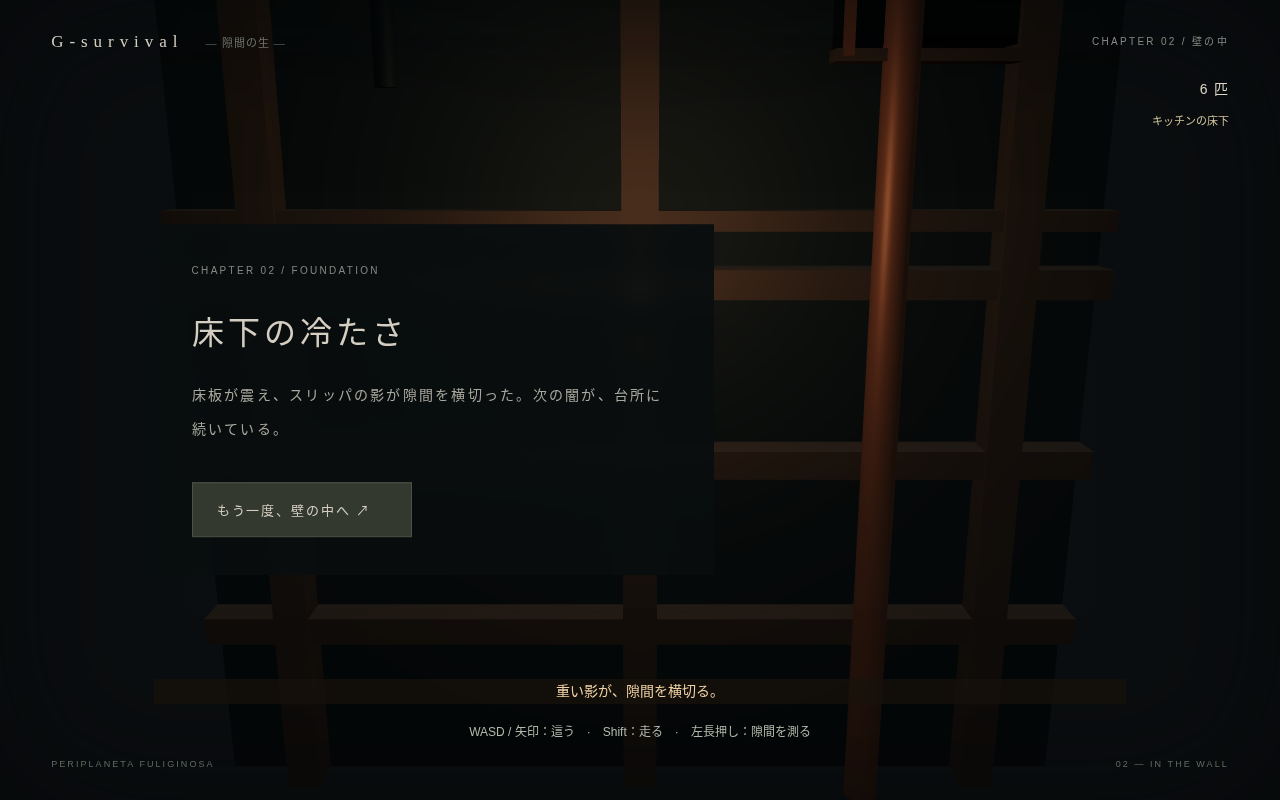
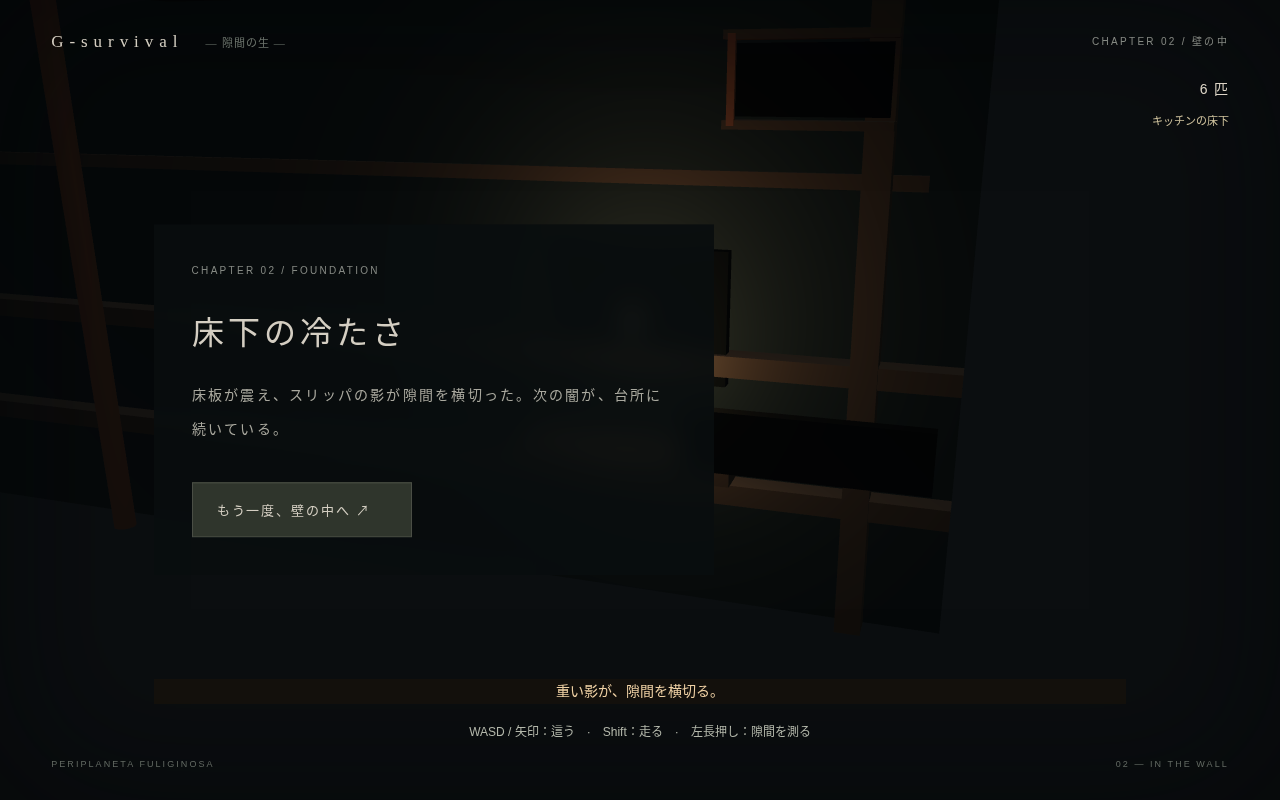
[codex] Rework chapter two routes and contact fairness

Changed region(s): [[0.2812, 0.0, 0.75, 0.7812], [0.5625, 0.0312, 0.5938, 0.1562]]

diff --git a/src/chapter2.ts b/src/chapter2.ts
@@ -8,11 +8,21 @@ type Gap = { x:number; y:number; width:number; side:-1|1; depth:number };
 type CentipedeState = 'patrol'|'warning'|'chase'|'recover';
 const SAVE_KEY='g-survival-progress-v1';
 const clamp=(v:number,lo:number,hi:number)=>Math.max(lo,Math.min(hi,v));
+const LEFT=4,RIGHT=28;
 const gaps:Gap[]=[
- {x:4,y:17,width:1.32,side:-1,depth:3.6},{x:10,y:29,width:.78,side:1,depth:2.8},
- {x:4,y:38,width:1.24,side:-1,depth:3.8},{x:10,y:57,width:.72,side:1,depth:2.7},
- {x:4,y:70,width:1.18,side:-1,depth:3.5},{x:10,y:84,width:.76,side:1,depth:2.6},
+ {x:4,y:17,width:1.4,side:-1,depth:3.6},{x:28,y:20,width:1.4,side:1,depth:3.2},
+ {x:4,y:38,width:1.4,side:-1,depth:3.8},{x:28,y:39,width:1.4,side:1,depth:3.2},
+ {x:4,y:55,width:1.4,side:-1,depth:3.5},{x:28,y:57,width:1.4,side:1,depth:3.2},
+ {x:4,y:70,width:1.4,side:-1,depth:3.5},{x:28,y:75,width:1.4,side:1,depth:3.2},
+ {x:4,y:80,width:1.4,side:-1,depth:3.5},{x:28,y:85,width:1.4,side:1,depth:3.2},
+ {x:4,y:29,width:.78,side:-1,depth:2.8},
 ];
+// AI provisional dimensions: full-height baffles force lateral detours; low debris can be climbed.
+const terrain=[{x:4,y:24,w:17,h:1.2,top:3,solid:true},{x:12,y:46,w:16,h:1.2,top:3,solid:true},{x:4,y:66,w:15,h:1.2,top:3,solid:true},{x:14,y:82,w:14,h:1.2,top:3,solid:true},
+ {x:9,y:14,w:5,h:5,top:1.3,solid:false},{x:17,y:34,w:5,h:5,top:1.6,solid:false},{x:10,y:54,w:5,h:4,top:1.2,solid:false}];
+const blocked=(x:number,y:number,r=.35,enemy=false)=>terrain.some(o=>(o.solid||enemy)&&x>o.x-r&&x<o.x+o.w+r&&y>o.y-r&&y<o.y+o.h+r);
+const heightAt=(x:number,y:number)=>terrain.reduce((z,o)=>o.solid?z:Math.max(z,o.top*clamp(Math.min(x-o.x,o.x+o.w-x,y-o.y,o.y+o.h-y)/1.2,0,1)),0);
+const clearLine=(ax:number,ay:number,bx:number,by:number)=>{const n=Math.ceil(Math.hypot(bx-ax,by-ay)*4);for(let i=0;i<=n;i++)if(blocked(ax+(bx-ax)*i/Math.max(n,1),ay+(by-ay)*i/Math.max(n,1),.2,true))return false;return true;};
 
 export function readProgress():ChapterSave{try{const v=JSON.parse(localStorage.getItem(SAVE_KEY)??'');if(v?.version===1&&Number.isInteger(v.survivors))return v;}catch{}return{version:1,unlockedChapter:1,currentChapter:1,survivors:24,instar:1,bodySize:.75,injuries:[]};}
 export function completeChapterOne(survivors:number){const s:ChapterSave={...readProgress(),unlockedChapter:2,currentChapter:2,survivors:Math.max(1,survivors),instar:3,bodySize:1.02};localStorage.setItem(SAVE_KEY,JSON.stringify(s));}
@@ -27,38 +37,46 @@ export async function mountChapterTwo(){
  const wallMat=new THREE.MeshStandardMaterial({color:'#2c3738',roughness:.94}),timber=new THREE.MeshStandardMaterial({color:'#55463b',roughness:.88}),voidMat=new THREE.MeshStandardMaterial({color:'#071012',roughness:1}),copper=new THREE.MeshStandardMaterial({color:'#93634a',roughness:.48,metalness:.35}),iron=new THREE.MeshStandardMaterial({color:'#354447',roughness:.62,metalness:.55}),insulation=new THREE.MeshStandardMaterial({color:'#71654d',roughness:1});
  function box(x:number,y:number,z:number,w:number,h:number,d:number,mat:THREE.Material){const m=new THREE.Mesh(new THREE.BoxGeometry(w,h,d),mat);m.position.set(x,-y,z);m.castShadow=m.receiveShadow=true;scene.add(m);return m;}
  function pipeAt(x:number,y:number,len:number,r:number,mat:THREE.Material=copper){const m=new THREE.Mesh(new THREE.CylinderGeometry(r,r,len,12),mat);m.position.set(x,-y,.72);m.castShadow=true;scene.add(m);return m;}
- box(7,48,-.6,15,98,1,wallMat);for(const x of [1,7,13])box(x,48,.25,.58,98,.62,timber);for(let y=7;y<92;y+=8)box(7,y,.2,15,.32,.55,timber);
+ box(16,48,-.6,34,98,1,wallMat);for(const o of terrain){if(o.solid)box(o.x+o.w/2,o.y+o.h/2,o.top/2,o.w,o.h,o.top,timber);else{const geometry=new THREE.PlaneGeometry(o.w,o.h,20,20),positions=geometry.attributes.position;for(let i=0;i<positions.count;i++){const x=positions.getX(i)+o.x+o.w/2,y=-positions.getY(i)+o.y+o.h/2;positions.setXYZ(i,x,-y,heightAt(x,y));}geometry.computeVertexNormals();const mound=new THREE.Mesh(geometry,insulation);mound.castShadow=mound.receiveShadow=true;scene.add(mound);}}for(const x of [1,31])box(x,48,.25,.58,98,.62,timber);for(let y=7;y<92;y+=8)box(16,y,-.05,32,.32,.15,timber);
  for(let y=5;y<27;y+=3.2)box(3+(y%2),y,.25,4.8,.42,.55,insulation);
  pipeAt(10.9,48,98,.29);pipeAt(3.2,49,72,.18,iron);for(const y of [33,60,78]){const cross=new THREE.Mesh(new THREE.CylinderGeometry(.16,.16,5.8,10),copper);cross.rotation.z=Math.PI/2;cross.position.set(8,-y,.7);scene.add(cross);}
- for(const gap of gaps){const cx=gap.side<0?gap.x-gap.depth/2:gap.x+gap.depth/2;box(cx,gap.y,.28,gap.depth,gap.width,.9,voidMat);box(cx,gap.y-gap.width/2-.16,.56,gap.depth+.2,.18,.62,timber);box(cx,gap.y+gap.width/2+.16,.56,gap.depth+.2,.18,.62,timber);const rim=new THREE.Mesh(new THREE.BoxGeometry(.16,gap.width+.36,.12),copper);rim.position.set(gap.side<0?3.92:10.08,-gap.y,.84);scene.add(rim);}
- for(const y of [88,91,94])box(7,y,.18,15,.48,.64,timber);
- const hero=createAnimal('roach',save.bodySize);scene.add(hero);
+ for(const gap of gaps){const cx=gap.side<0?gap.x-gap.depth/2:gap.x+gap.depth/2;box(cx,gap.y,.28,gap.depth,gap.width,.9,voidMat);box(cx,gap.y-gap.width/2-.16,.56,gap.depth+.2,.18,.62,timber);box(cx,gap.y+gap.width/2+.16,.56,gap.depth+.2,.18,.62,timber);const rim=new THREE.Mesh(new THREE.BoxGeometry(.16,gap.width+.36,.12),copper);rim.position.set(gap.x+gap.side*.08,-gap.y,.84);scene.add(rim);}
+ for(const y of [91,94])box(16,y,.18,34,.48,.64,timber);
+ box(26,90,.22,4,3,.3,voidMat);box(26,93,1,5,.4,2,timber);
+ const kitchenLight=new THREE.PointLight('#ffe1aa',18,10);kitchenLight.position.set(26,-91,2.5);scene.add(kitchenLight);
+ const slipper=box(26,92,2.5,5,1.3,.3,voidMat);slipper.visible=false;
+ const wind=box(16,61,.12,24,.12,.06,copper);wind.visible=false;
+ const hero=createAnimal('roach',save.bodySize),heroSurface=new THREE.Group();heroSurface.add(hero);scene.add(heroSurface);
  const companions=[-1,1,2].map((side,i)=>{const g=createAnimal('roach',save.bodySize*.92);scene.add(g);return{g,side,delay:i*.18};});
  const centipede=createCentipede();scene.add(centipede);
  const geji=new THREE.Group(),gejiMat=new THREE.MeshStandardMaterial({color:'#4f5350',roughness:.82});for(let n=0;n<12;n++){const body=new THREE.Mesh(new THREE.SphereGeometry(.12,8,5),gejiMat);body.scale.set(1.5,.62,.2);body.position.set(-n*.18,0,.1);geji.add(body);for(const side of [-1,1]){const leg=new THREE.Mesh(new THREE.CylinderGeometry(.008,.008,.78,4),gejiMat);leg.rotation.z=side*Math.PI/2.25;leg.position.set(0,side*.27,.02);body.add(leg);}}scene.add(geji);
  const gecko=new THREE.Group(),geckoMat=new THREE.MeshStandardMaterial({color:'#8b8768',roughness:.9});const geckoBody=new THREE.Mesh(new THREE.SphereGeometry(.42,12,8),geckoMat);geckoBody.scale.set(2.2,.68,.2);gecko.add(geckoBody);const geckoHead=new THREE.Mesh(new THREE.SphereGeometry(.3,10,7),geckoMat);geckoHead.position.x=1.02;geckoHead.scale.set(1,.75,.25);gecko.add(geckoHead);for(const side of [-1,1])for(const x of [-.5,.45]){const foot=new THREE.Mesh(new THREE.CylinderGeometry(.035,.035,.7,5),geckoMat);foot.rotation.z=side*Math.PI/2.25;foot.position.set(x,side*.28,.02);gecko.add(foot);}gecko.position.set(7,-77,.65);scene.add(gecko);
- const audio=new AudioEngine();const keys=new Set<string>();let started=false,ended=false,probe=false,last=performance.now(),startedAt=0,survivors=save.survivors,invulnerable=0,lossNotice=0,moltHold=0,molting=0,molted=save.bodySize>1.02,geckoTimer=0,geckoWarning=0,humanTimer=-1;let bodySize=save.bodySize;const player={x:7,y:3,angle:-Math.PI/2};const checkpoint={x:7,y:3};const enemy={x:7,y:34,state:'patrol' as CentipedeState,timer:0,targetY:34};
+ const audio=new AudioEngine();const keys=new Set<string>();let started=false,ended=false,probe=false,last=performance.now(),startedAt=0,survivors=save.survivors,invulnerable=0,lossNotice=0,moltHold=0,molting=0,molted=save.bodySize>1.02,geckoTimer=0,geckoWarning=0,humanTimer=-1;let elapsed=0,gejiExposure=0;const geckoAttack={x:7,y:77,tx:7,ty:77,strike:0};let bodySize=save.bodySize;const player={x:7,y:3,angle:-Math.PI/2};const checkpoint={x:7,y:3};const enemy={x:7,y:34,state:'patrol' as CentipedeState,timer:0,targetY:34};
  addEventListener('keydown',e=>{if(['KeyW','KeyA','KeyS','KeyD','ArrowUp','ArrowDown','ArrowLeft','ArrowRight','ShiftLeft','ShiftRight'].includes(e.code))e.preventDefault();keys.add(e.code);});addEventListener('keyup',e=>keys.delete(e.code));addEventListener('blur',()=>keys.clear());addEventListener('pointerdown',e=>{if(e.button===0&&!(e.target as HTMLElement).closest('button'))probe=true;});addEventListener('pointerup',()=>probe=false);
  const resize=()=>{renderer.setSize(innerWidth,innerHeight);camera.aspect=innerWidth/innerHeight;camera.updateProjectionMatrix();};addEventListener('resize',resize);resize();
  const begin=document.querySelector<HTMLButtonElement>('#begin')!;begin.disabled=false;begin.innerHTML='壁の中へ入る <span>↓</span>';begin.onclick=()=>{started=true;startedAt=performance.now();document.querySelector('#entry')!.classList.add('gone');void audio.start();};document.querySelector<HTMLButtonElement>('#again')!.onclick=()=>location.reload();
- const nearGap=()=>gaps.find(g=>Math.abs(player.y-g.y)<g.width*.5+.18&&Math.abs(player.x-g.x)<g.depth+.5);
- const sheltered=()=>{const g=nearGap();return !!g&&g.width>=bodySize&&(g.side<0?player.x<3.8:player.x>10.2);};
- function move(dt:number){if(molting>0||humanTimer>=0)return 0;const dx=(keys.has('KeyD')||keys.has('ArrowRight')?1:0)-(keys.has('KeyA')||keys.has('ArrowLeft')?1:0),dy=(keys.has('KeyS')||keys.has('ArrowDown')?1:0)-(keys.has('KeyW')||keys.has('ArrowUp')?1:0),len=Math.hypot(dx,dy);if(!len)return 0;const speed=(keys.has('ShiftLeft')||keys.has('ShiftRight')?3.6:2.6),step=speed*dt,nx=dx/len,ny=dy/len;let nextX=player.x+nx*step,nextY=clamp(player.y+ny*step,1,92);const gate=gaps.find(g=>Math.abs(nextY-g.y)<g.width*.5+.18&&((g.side<0&&nextX<4)||(g.side>0&&nextX>10)));if(nextX<4||nextX>10){if(!gate||gate.width<bodySize)nextX=clamp(nextX,4,10);else nextX=clamp(nextX,gate.side<0?4-gate.depth:4,gate.side>0?10+gate.depth:10);}player.x=nextX;player.y=nextY;player.angle=Math.atan2(-ny,nx);return speed;}
- function updateEnemy(dt:number){enemy.timer+=dt;if(enemy.state==='patrol'){enemy.y=34+(1-Math.abs((enemy.timer*2.1%44)-22));if(Math.hypot(enemy.x-player.x,enemy.y-player.y)<7.5&&!sheltered()){enemy.state='warning';enemy.timer=0;enemy.targetY=player.y;}}else if(enemy.state==='warning'){if(sheltered()){enemy.state='recover';enemy.timer=0;}else if(enemy.timer>=.6){enemy.state='chase';enemy.timer=0;}}else if(enemy.state==='chase'){if(sheltered()){enemy.state='recover';enemy.timer=0;}else{const dx=player.x-enemy.x,dy=player.y-enemy.y,distance=Math.hypot(dx,dy),d=distance||1,step=Math.min(distance,3.9*dt);enemy.x+=dx/d*step;enemy.y+=dy/d*step;if(distance<.58&&invulnerable<=0){survivors--;lossNotice=2.5;invulnerable=1.2;player.x=checkpoint.x;player.y=checkpoint.y;enemy.state='recover';enemy.timer=0;if(survivors<=0)finish(false);}}}else if(enemy.timer>=1.6){enemy.state='patrol';enemy.timer=0;}}
+ const nearGap=()=>gaps.find(g=>Math.abs(player.y-g.y)<g.width*.5+.18&&(player.x-g.x)*g.side>-.5&&(player.x-g.x)*g.side<g.depth+.5);
+ const sheltered=()=>{const g=nearGap();return !!g&&g.width>=bodySize&&(player.x-g.x)*g.side>.2;};
+ function move(dt:number){if(molting>0||humanTimer>=0)return 0;const dx=(keys.has('KeyD')||keys.has('ArrowRight')?1:0)-(keys.has('KeyA')||keys.has('ArrowLeft')?1:0),dy=(keys.has('KeyS')||keys.has('ArrowDown')?1:0)-(keys.has('KeyW')||keys.has('ArrowUp')?1:0),len=Math.hypot(dx,dy);if(!len)return 0;const speed=(keys.has('ShiftLeft')||keys.has('ShiftRight')?3.6:2.6),step=speed*dt,nx=dx/len,ny=dy/len;let nextX=player.x+nx*step,nextY=clamp(player.y+ny*step,1,92);const gate=gaps.find(g=>Math.abs(nextY-g.y)<Math.max(.08,(g.width-bodySize)*.5+.1)&&((g.side<0&&nextX<LEFT)||(g.side>0&&nextX>RIGHT)));
+ if(nextX<LEFT||nextX>RIGHT){if(!gate||gate.width<bodySize){nextX=clamp(nextX,LEFT,RIGHT);if(player.x<LEFT||player.x>RIGHT){nextX=player.x+nx*step;nextY=player.y;}}else nextX=clamp(nextX,gate.side<0?LEFT-gate.depth:LEFT,gate.side>0?RIGHT+gate.depth:RIGHT);}
+ if(!blocked(nextX,player.y))player.x=nextX;if(!blocked(player.x,nextY))player.y=nextY;player.angle=Math.atan2(-ny,nx);return speed;}
+ function updateEnemy(dt:number){enemy.timer+=dt;if(enemy.state==='patrol'){const patrolY=34+Math.sin(enemy.timer*.35)*7;if(!blocked(enemy.x,patrolY,.4,true))enemy.y=patrolY;if(Math.hypot(enemy.x-player.x,enemy.y-player.y)<7.5&&!sheltered()&&clearLine(enemy.x,enemy.y,player.x,player.y)){enemy.state='warning';enemy.timer=0;enemy.targetY=player.y;}}else if(enemy.state==='warning'){if(sheltered()){enemy.state='recover';enemy.timer=0;}else if(enemy.timer>=.6){enemy.state='chase';enemy.timer=0;}}else if(enemy.state==='chase'){if(sheltered()){enemy.state='recover';enemy.timer=0;}else{const dx=player.x-enemy.x,dy=player.y-enemy.y,distance=Math.hypot(dx,dy),d=distance||1,step=Math.min(distance,3.9*dt);if(!blocked(enemy.x+dx/d*step,enemy.y,.4,true))enemy.x+=dx/d*step;if(!blocked(enemy.x,enemy.y+dy/d*step,.4,true))enemy.y+=dy/d*step;if(distance<.58&&heightAt(player.x,player.y)<.3&&invulnerable<=0){survivors--;lossNotice=2.5;invulnerable=1.2;player.x=checkpoint.x;player.y=checkpoint.y;enemy.state='recover';enemy.timer=0;if(survivors<=0)finish(false);}}}else if(enemy.timer>=1.6){enemy.state='patrol';enemy.timer=0;}}
  function lose(){if(invulnerable>0)return;survivors--;lossNotice=2.5;invulnerable=1.2;player.x=checkpoint.x;player.y=checkpoint.y;enemy.state='recover';enemy.timer=0;if(survivors<=0)finish(false);}
  function updateHazards(dt:number,now:number){
-  const phase=(now/1000)%10,gejiActive=phase>=.65&&phase<4.2&&player.y>58&&player.y<64;
-  if(gejiActive&&!sheltered()&&player.x>3.2&&player.x<10.8)lose();
-  if(player.y>72&&player.y<84&&!sheltered()&&geckoWarning<=0){geckoTimer+=dt;if(geckoTimer>=1.1){geckoWarning=.7;geckoTimer=0;}}else geckoTimer=0;
-  if(geckoWarning>0){geckoWarning-=dt;if(geckoWarning<=0&&!sheltered()&&player.y>72&&player.y<84)lose();}
+  const phase=now%10,gejiX=LEFT-3+(phase-.9)*8;
+  gejiExposure=player.y>54&&player.y<68?gejiExposure+dt:0;
+  if(phase>=.9&&phase<4.8&&gejiExposure>=.9&&!sheltered()&&Math.abs(player.y-61)<.5&&player.x<=gejiX+.25&&player.x>=gejiX-2.4&&heightAt(player.x,player.y)<.3)lose();
+  if(player.y>72&&player.y<84&&!sheltered()&&geckoWarning<=0&&geckoAttack.strike<=0){geckoTimer+=dt;if(geckoTimer>=1.1){geckoWarning=.9;geckoTimer=0;geckoAttack.tx=player.x;geckoAttack.ty=player.y;}}else geckoTimer=0;
+  if(geckoWarning>0){geckoWarning-=dt;if(geckoWarning<=0)geckoAttack.strike=.65;}
+  if(geckoAttack.strike>0){geckoAttack.strike-=dt;const dx=geckoAttack.tx-geckoAttack.x,dy=geckoAttack.ty-geckoAttack.y,d=Math.hypot(dx,dy)||1,step=Math.min(d,12*dt);if(!blocked(geckoAttack.x+dx/d*step,geckoAttack.y+dy/d*step,.45,true)){geckoAttack.x+=dx/d*step;geckoAttack.y+=dy/d*step;}if(!sheltered()&&Math.hypot(player.x-geckoAttack.x,player.y-geckoAttack.y)<.7)lose();}
   if(!molted&&player.y>67&&player.y<73&&sheltered()&&keys.has('Space'))moltHold+=dt;else moltHold=0;
   if(!molted&&moltHold>=3){molting=3.2;moltHold=0;}
   if(molting>0){molting-=dt;if(molting<=0){molted=true;bodySize=1.2;save.bodySize=bodySize;save.instar=4;localStorage.setItem(SAVE_KEY,JSON.stringify(save));}}
-  if(player.y>=88&&humanTimer<0)humanTimer=0;
+  if(player.y>=89&&player.x>=24&&humanTimer<0)humanTimer=0;
   if(humanTimer>=0){humanTimer+=dt;if(humanTimer>=3.2)finish(true);}
  }
  function finish(won:boolean){if(ended)return;ended=true;const end=document.querySelector<HTMLElement>('#ending')!;end.hidden=false;end.querySelector('h2')!.textContent=won?'床下の冷たさ':'脚音だけが残った';end.querySelector('p')!.textContent=won?'床板が震え、スリッパの影が隙間を横切った。次の闇が、台所に続いている。':'Gの群れは、壁の途中で途絶えた。';}
- function render(now:number,speed:number){hero.position.set(player.x,-player.y,.72);animateAnimal(hero,now/1000,speed,player.angle,molting>0?(1-molting/3.2):molted?.3:0);const scatter=Math.min(1,Math.max(0,(now-startedAt)/1800));companions.forEach(({g,side,delay},i)=>{if(scatter>=1){g.visible=false;return;}const t=Math.max(0,Math.min(1,scatter-delay));g.position.set(7+side*(.35+t*(2.8+i*.45)),-(3+t*(3.5+i*1.8)),.72);animateAnimal(g,now/1000,2.4,Math.atan2(-(3.5+i*1.8),side*(2.8+i*.45)));});const centipedeSpeed=enemy.state==='chase'?3.9:enemy.state==='patrol'?2.1:enemy.state==='warning'?.35:.8;animateCentipede(centipede,now/1000,centipedeSpeed);centipede.position.set(enemy.x,-enemy.y,.72);centipede.rotation.z=Math.atan2(-(player.y-enemy.y),player.x-enemy.x);const gejiPhase=(now/1000)%10,gejiX=gejiPhase<.65?-3:gejiPhase<4.2?-3+(gejiPhase-.65)*5.2:16;geji.visible=gejiPhase<4.2;geji.position.set(gejiX,-61,.09);geji.rotation.z=0;gecko.visible=player.y>68&&player.y<87;gecko.position.y=-77;gecko.position.x=geckoWarning>0?7+Math.sin(now*.03)*.35:7;gecko.rotation.z=Math.PI;camera.position.set(7,-player.y+2.2,17);camera.lookAt(7,-player.y-2,0);lamp.position.set(player.x,-player.y+1,4);renderer.render(scene,camera);}
- function frame(now:number){requestAnimationFrame(frame);const dt=Math.min(.05,(now-last)/1000);last=now;let speed=0;if(started&&!ended){invulnerable=Math.max(0,invulnerable-dt);lossNotice=Math.max(0,lossNotice-dt);speed=move(dt);if(player.y>12)checkpoint.y=Math.max(checkpoint.y,Math.floor(player.y/18)*18);updateEnemy(dt);updateHazards(dt,now);const gap=nearGap(),tooNarrow=!!gap&&gap.width<bodySize,danger=enemy.state==='warning'||enemy.state==='chase',gejiWarning=player.y>54&&player.y<68&&((now/1000)%10)<.65;const warning=lossNotice>0?'Gが1体、減りました':humanTimer>=0?(humanTimer<1.2?'床板が、上で軋み始めた。':'重い影が、隙間を横切る。'):molting>0?'背中が裂け、白い脚が壁に貼りつく。':!molted&&moltHold>0?'殻の内側が、ゆっくり膨らむ。':tooNarrow?'胸が擦れる。ここはもう通れない。':danger?(enemy.state==='warning'?'粉塵が、下から浮いた。':'ムカデの頭が、こちらへ向いた。'):geckoWarning>0?'巾木の影が、呼吸のように膨らむ。':gejiWarning?'配管の上で、細い脚音が増えていく。':probe&&gap?(gap.width>=bodySize?'触角の先に、身体を隠せる奥行きがある。':'触角が、奥で戻ってきた。'):'';document.querySelector('#warning')!.textContent=warning;document.querySelector('#population')!.textContent=survivors+' 匹';document.querySelector('#objective')!.textContent=player.y<28?'配線と間柱のシャフト':player.y<58?'湿った配管の分岐':player.y<82?'巾木の裏':'キッチンの床下';audio.update(dt,{speed:speed/3.6,danger:danger?1:gejiWarning||geckoWarning>0? .8:humanTimer>=0?.9:0,pan:Math.sign(enemy.x-player.x),molting:molting>0,stamina:1,human:humanTimer>=0?1:0,vertical:enemy.y-player.y,loss:lossNotice>2});}render(now,speed);}
- if(import.meta.env.DEV&&new URLSearchParams(location.search).has('test'))Object.assign(window,{chapter2Test:{setPosition(x:number,y:number){player.x=x;player.y=y;},snapshot(){return{...player,survivors,enemy:{...enemy},sheltered:sheltered(),molted,bodySize,humanTimer,geckoTimer,geckoWarning,moltHold,molting};},setEnemy(state:CentipedeState,y:number,timer=0,x=7){enemy.state=state;enemy.x=x;enemy.y=y;enemy.timer=timer;},startMolt(){molting=3.2;}}});requestAnimationFrame(frame);
+ function render(now:number,speed:number){heroSurface.position.set(player.x,-player.y,.72+heightAt(player.x,player.y));const slopeX=(heightAt(player.x+.05,player.y)-heightAt(player.x-.05,player.y))/.1,slopeY=(heightAt(player.x,player.y+.05)-heightAt(player.x,player.y-.05))/.1;heroSurface.quaternion.setFromUnitVectors(new THREE.Vector3(0,0,1),new THREE.Vector3(-slopeX,slopeY,1).normalize());animateAnimal(hero,now/1000,speed,player.angle,molting>0?(1-molting/3.2):molted?.3:0);const scatter=Math.min(1,Math.max(0,(now-startedAt)/1800));companions.forEach(({g,side,delay},i)=>{if(scatter>=1){g.visible=false;return;}const t=Math.max(0,Math.min(1,scatter-delay));g.position.set(7+side*(.35+t*(2.8+i*.45)),-(3+t*(3.5+i*1.8)),.72);animateAnimal(g,now/1000,2.4,Math.atan2(-(3.5+i*1.8),side*(2.8+i*.45)));});const centipedeSpeed=enemy.state==='chase'?3.9:enemy.state==='patrol'?2.1:enemy.state==='warning'?.35:.8;animateCentipede(centipede,now/1000,centipedeSpeed);centipede.position.set(enemy.x,-enemy.y,.72);centipede.rotation.z=Math.atan2(-(player.y-enemy.y),player.x-enemy.x);const gejiPhase=elapsed%10,gejiX=LEFT-3+(gejiPhase-.9)*8;geji.visible=gejiPhase>=.9&&gejiPhase<4.8;geji.position.set(gejiX,-61,.72);wind.visible=gejiPhase<.9;wind.scale.y=1+gejiPhase*12;geji.rotation.z=0;gecko.visible=player.y>68&&player.y<87;gecko.position.set(geckoAttack.x,-geckoAttack.y,.72);gecko.scale.setScalar(geckoWarning>0?1+.12*Math.sin(now*.015):1);gecko.rotation.z=Math.atan2(-(geckoAttack.ty-geckoAttack.y),geckoAttack.tx-geckoAttack.x);slipper.visible=humanTimer>=1.2;slipper.position.x=26+(humanTimer-2.2)*4;camera.position.set(player.x+7,-player.y+5,22);camera.lookAt(player.x,-player.y-2,.3);lamp.position.set(player.x,-player.y+1,4);renderer.render(scene,camera);}
+ function frame(now:number){requestAnimationFrame(frame);const dt=Math.min(.05,(now-last)/1000);last=now;let speed=0;if(started&&!ended){invulnerable=Math.max(0,invulnerable-dt);lossNotice=Math.max(0,lossNotice-dt);elapsed+=dt;speed=move(dt);if(sheltered()){checkpoint.x=player.x;checkpoint.y=player.y;}updateEnemy(dt);updateHazards(dt,elapsed);const gap=nearGap(),tooNarrow=!!gap&&gap.width<bodySize,danger=enemy.state==='warning'||enemy.state==='chase',gejiWarning=player.y>54&&player.y<68&&(elapsed%10)<.9;const warning=lossNotice>0?'Gが1体、減りました':humanTimer>=0?(humanTimer<1.2?'床板が、上で軋み始めた。':'重い影が、隙間を横切る。'):molting>0?'背中が裂け、白い脚が壁に貼りつく。':!molted&&moltHold>0?'殻の内側が、ゆっくり膨らむ。':tooNarrow?'胸が擦れる。ここはもう通れない。':danger?(enemy.state==='warning'?'粉塵が、下から浮いた。':'ムカデの頭が、こちらへ向いた。'):geckoWarning>0?'巾木の影が、呼吸のように膨らむ。':gejiWarning?'配管の上で、細い脚音が増えていく。':probe&&gap?(gap.width>=bodySize?'触角の先に、身体を隠せる奥行きがある。':'触角が、奥で戻ってきた。'):'';document.querySelector('#warning')!.textContent=warning;document.querySelector('#population')!.textContent=survivors+' 匹';document.querySelector('#objective')!.textContent=player.y<28?'配線と間柱のシャフト':player.y<58?'湿った配管の分岐':player.y<82?'巾木の裏':'キッチンの床下';audio.update(dt,{speed:speed/3.6,danger:danger?1:gejiWarning||geckoWarning>0? .8:humanTimer>=0?.9:0,pan:Math.sign(enemy.x-player.x),molting:molting>0,stamina:1,human:humanTimer>=0?1:0,vertical:enemy.y-player.y,loss:lossNotice>2});}render(now,speed);}
+ if(import.meta.env.DEV&&new URLSearchParams(location.search).has('test'))Object.assign(window,{chapter2Test:{step(dt:number){if(ended)return;elapsed+=dt;invulnerable=Math.max(0,invulnerable-dt);move(dt);if(sheltered()){checkpoint.x=player.x;checkpoint.y=player.y;}updateEnemy(dt);updateHazards(dt,elapsed);},setPosition(x:number,y:number){player.x=x;player.y=y;},snapshot(){return{...player,survivors,enemy:{...enemy},elapsed,height:heightAt(player.x,player.y),geckoAttack:{...geckoAttack},sheltered:sheltered(),molted,bodySize,humanTimer,geckoTimer,geckoWarning,moltHold,molting};},setEnemy(state:CentipedeState,y:number,timer=0,x=7){enemy.state=state;enemy.x=x;enemy.y=y;enemy.timer=timer;},startMolt(){molting=3.2;}}});requestAnimationFrame(frame);
 }

diff --git a/src/centipede.ts b/src/centipede.ts
@@ -2,25 +2,34 @@ import * as THREE from 'three';
 import { GLTFLoader, type GLTF } from 'three/addons/loaders/GLTFLoader.js';
 
 let asset:GLTF|undefined,pending:Promise<void>|undefined;
-type Piece={node:THREE.Object3D;position:THREE.Vector3;quaternion:THREE.Quaternion;index:number;side:number};
-type Rig={tergites:Piece[];legs:Piece[];feelers:Piece[];claws:Piece[];last:number|null;phase:number};
-const rigs=new WeakMap<THREE.Group,Rig>(),turn=new THREE.Quaternion();
-// Native glTF -Z forward / +Y up -> Chapter 2 wall plane +X forward / +Z out.
+type Segment={node:THREE.Group;base:THREE.Vector3;index:number};
+type Leg={node:THREE.Group;index:number;side:number};
+type Rig={segments:Segment[];legs:Leg[];last:number|null;phase:number};
+const rigs=new WeakMap<THREE.Group,Rig>();
+// Native glTF -Z forward / +Y up -> wall +X forward / +Z out.
 const basis=new THREE.Matrix4().makeBasis(new THREE.Vector3(0,-1,0),new THREE.Vector3(0,0,1),new THREE.Vector3(-1,0,0));
-
 export function loadCentipede(){return pending??=new GLTFLoader().loadAsync(`${import.meta.env.BASE_URL}models/centipede.glb`).then(g=>{if(!g.scene.getObjectByName('head'))throw new Error('Centipede head missing');asset=g;}).catch(error=>{pending=undefined;throw error;});}
-function collect(model:THREE.Object3D,prefix:string){const pieces:Piece[]=[];model.traverse(node=>{if(!node.name.startsWith(prefix))return;const match=node.name.match(/_(\d+)(?:_|$)/),side=/_L(?:_|$)/.test(node.name)?-1:/_R(?:_|$)/.test(node.name)?1:0;pieces.push({node,position:node.position.clone(),quaternion:node.quaternion.clone(),index:match?Number(match[1]):0,side});});return pieces.sort((a,b)=>a.index-b.index||a.side-b.side);}
 export function createCentipede(){
  if(!asset)throw new Error('Call loadCentipede before creating a centipede');
- const g=new THREE.Group(),adapter=new THREE.Group(),model=asset.scene.clone(true);adapter.quaternion.setFromRotationMatrix(basis);adapter.add(model);g.add(adapter);g.scale.setScalar(.82);g.updateMatrixWorld(true);
+ const g=new THREE.Group(),adapter=new THREE.Group(),model=asset.scene.clone(true);adapter.quaternion.setFromRotationMatrix(basis);adapter.add(model);g.add(adapter);g.scale.setScalar(.82);
+ // Anchor simulation/contact to the actual head, keeping the accepted asset proportions.
+ const head=model.getObjectByName('head')!;model.position.copy(head.position).multiplyScalar(-1);model.position.y=0;
+ const pieces=[...model.children],segments:Segment[]=[],legs:Leg[]=[];
+ for(let index=0;index<17;index++){
+  const plate=model.getObjectByName(`tergite_${String(index).padStart(2,'0')}`)!;const node=new THREE.Group();node.position.copy(plate.position);model.add(node);segments.push({node,base:node.position.clone(),index});
+  for(const part of pieces){const m=part.name.match(/^(?:tergite|sternite|leg)_(\d+)/);if(m&&Number(m[1])===index){part.position.sub(node.position);node.add(part);}}
+  for(const side of [-1,1]){const tag=side<0?'L':'R',parts=node.children.filter(p=>p.name.startsWith(`leg_${String(index).padStart(2,'0')}_${tag}_`));if(!parts.length)continue;
+   const upper=parts.find(p=>p.name.endsWith('_upper'))! as THREE.Mesh;upper.geometry.computeBoundingBox();const bounds=upper.geometry.boundingBox!;
+   const a=new THREE.Vector3(0,bounds.min.y,0).applyQuaternion(upper.quaternion).add(upper.position),b=new THREE.Vector3(0,bounds.max.y,0).applyQuaternion(upper.quaternion).add(upper.position);
+   const pivot=new THREE.Group();pivot.position.copy(Math.abs(a.x)<Math.abs(b.x)?a:b);node.add(pivot);for(const part of parts){part.position.sub(pivot.position);pivot.add(part);}legs.push({node:pivot,index,side});
+  }
+ }
  model.traverse(node=>{if(node instanceof THREE.Mesh){node.castShadow=true;node.receiveShadow=true;node.frustumCulled=false;}});
- rigs.set(g,{tergites:collect(model,'tergite_').filter(p=>!p.node.name.endsWith('_rear')),legs:collect(model,'leg_'),feelers:[...collect(model,'antenna_'),...collect(model,'terminal_leg_')],claws:collect(model,'forcipule_'),last:null,phase:0});
- return g;
+ rigs.set(g,{segments,legs,last:null,phase:0});return g;
 }
 export function animateCentipede(g:THREE.Group,time:number,speed:number){
- const r=rigs.get(g);if(!r)return;const dt=r.last===null?0:Math.min(.1,Math.max(0,time-r.last));r.last=time;const moving=THREE.MathUtils.clamp(speed/3.9,0,1);r.phase+=dt*(.75+moving*4.4);
- for(const p of r.tergites){const wave=Math.sin(r.phase-p.index*.62);p.node.position.copy(p.position);p.node.position.x+=wave*.035*moving;p.node.position.y+=Math.cos(r.phase-p.index*.62)*.012*moving;}
- for(const p of r.legs){const wave=Math.sin(r.phase*1.8-p.index*.72+(p.side<0?0:Math.PI));p.node.quaternion.copy(p.quaternion).multiply(turn.setFromAxisAngle(new THREE.Vector3(0,1,0),wave*(.16+.28*moving)));}
- for(const p of r.feelers){const wave=Math.sin(time*3.2+(p.side<0?0:Math.PI));p.node.quaternion.copy(p.quaternion).multiply(turn.setFromAxisAngle(new THREE.Vector3(0,0,1),wave*(.08+.12*moving)));}
- for(const p of r.claws){const wave=Math.sin(time*5+(p.side<0?0:Math.PI));p.node.quaternion.copy(p.quaternion).multiply(turn.setFromAxisAngle(new THREE.Vector3(0,1,0),p.side*(.08+wave*.055)));}
+ const r=rigs.get(g);if(!r)return;const dt=r.last===null?0:Math.min(.1,Math.max(0,time-r.last));r.last=time;const moving=THREE.MathUtils.clamp(speed/3.9,0,1);r.phase+=dt*moving*8;
+ for(const p of r.segments){const wave=r.phase*.5-p.index*.42,amp=.16*moving*(p.index/16);p.node.position.copy(p.base);p.node.position.x+=Math.sin(wave)*amp;p.node.rotation.y=-Math.cos(wave)*amp*1.6;}
+ // Each three-piece leg swings at its hip as a unit; joints remain connected.
+ for(const p of r.legs){const wave=r.phase-p.index*.72+(p.side<0?0:Math.PI);p.node.rotation.y=Math.sin(wave)*.38*moving;p.node.rotation.z=p.side*Math.max(0,Math.cos(wave))*.16*moving;}
 }

diff --git a/docs/chapter2-rework.md b/docs/chapter2-rework.md
@@ -1,0 +1,30 @@
+# 第2章 課題整理と調整順（2026-09-10）
+
+ガクチョの実プレイ指摘を受け、原仕様 §9 と `docs/chapter2-spec.md` §4〜6・10を基準に再点検。従来の「実装完了」は到達性・体験の合格を意味しない。
+
+| 優先順 | 確認した問題 | 調整と受け入れ条件 |
+|---|---|---|
+| 1 接触・退避 | ゲジはy=58〜64の帯全体、ヤモリはy=72〜84の帯全体を時間だけで捕食。隙間は左右非対称で、70地点の穴は脱皮後に入れない | 描画と同じ位置の身体接触に限定。各遭遇前後に成長後も使える穴。通常操作で退避でき、予告中は無害 |
+| 2 空間・ゴール | 主通路はx=4〜10の幅6。横移動は袋小路のみ。y=88だけでクリア | 左右に広い壁に仕切り・迂回を配置。縦下降は維持し、右下のキッチン開口へ到達して終幕 |
+| 3 地形 | 梁・配管は描画のみ。プレイヤーと敵は一定Zを直進 | 地形の高さ・遮蔽を移動と追跡に反映。登る／迂回する選択が安全につながる |
+| 4 生物・カメラ | ムカデの非一様な潰しはないが、正面に近いカメラ。節だけが微小移動し、脚部品がそれぞれの中心で回転 | GLB形状を維持して斜めから描画。胴節と腹・脚を一緒に曲げ、脚の関節接続を保つ |
+| 5 後半 | 自動監査は座標移動中心。ゲジを越えて到達できる根拠がない | 通常移動と時間進行で前半→ゲジ→ヤモリ→右下の出口。後半の画面も記録 |
+
+未充足の元要件も分けて残す：触角による非言語の幅測定、面間の連続移動と滑落予告、資源のある横枝、兄弟の操作交代、イントロ再閲覧。これらを難易度数値の変更で代替しない。
+
+横幅拡張・右下ゴール・立体化・歩行改善はガクチョ指定。具体的な寸法、敵の速度、退避口の間隔、カメラ角はAI暫定値。初見の発見性、恐怖感、FPS、8〜10分は実プレイ判定を要する。
+
+## 今回の調整結果
+
+- 通路幅6→24、左右の退避口10箇所＋狭い穴1箇所、高い仕切り4枚、登れる断熱材3箇所。縦下降を維持し、右下 x≥24/y≥89 で終幕。安全な横穴をチェックポイントとする。
+- ゲジは身体付近のみ接触、ヤモリは0.9秒の予告で狙いを固定して突進。ムカデは地形の遮蔽で探知できず、高い仕切りと断熱材を頭部が貫通しない。
+- 斜めからの追従カメラ、斜面高さと身体の傾斜、脚の股関節グループ化・胴節と腹部の連動を追加。GLB自体と形状比率は維持。
+- `bash scripts/verify.sh` 全項目PASS（build、12群smoke、第1章260.7秒/13匹、browser、chapter2、nymph）。追加の `chapter2-route-audit.mjs` もPASSし、verifyへ組込み。開始からゴールまでは座標/敵の書き換えなし、キーイベントと通常の移動・敵更新を20msずつ進め、約54秒・8匹で終幕。続く局所回帰は位置を設定して、走って横穴へ逃げられること、仕切りを敵が貫通しないこと、斜面高さ、ゲジの旧死亡帯で無接触なら生存することを確認。
+- 画面証跡: `artifacts/chapter2-route-70.png` / `chapter2-route-79.png` / `chapter2-route-ending.png`。静止画で仕切りの厚みと後半の描画を確認。実機の操作感・自然な歩行・FPSは未判定。
+
+## 次の調整に残すこと
+
+- 現状は広い空間と迂回・退避が成立する第一段階。短い既知経路を引き延ばす数値調整ではなく、資源や成長で選ぶ分岐を加える必要がある。8〜10分の体験は未達・未測定。
+- 障害物対応は頭部の衝突と遮蔽。ムカデが全身の軌跡を保って角を回る経路追従、脚先の厳密な接地は未実装。
+- 登れるのは今回追加した断熱材の斜面。配管・間柱の全接触面への連続移動、側面での貼り付きと落下予告は未実装。
+- ヤモリ/ゲジの造形は簡易モデル。気流・粉塵・影による十分な非言語の予告、触角の幅測定は引き続き要改善。
